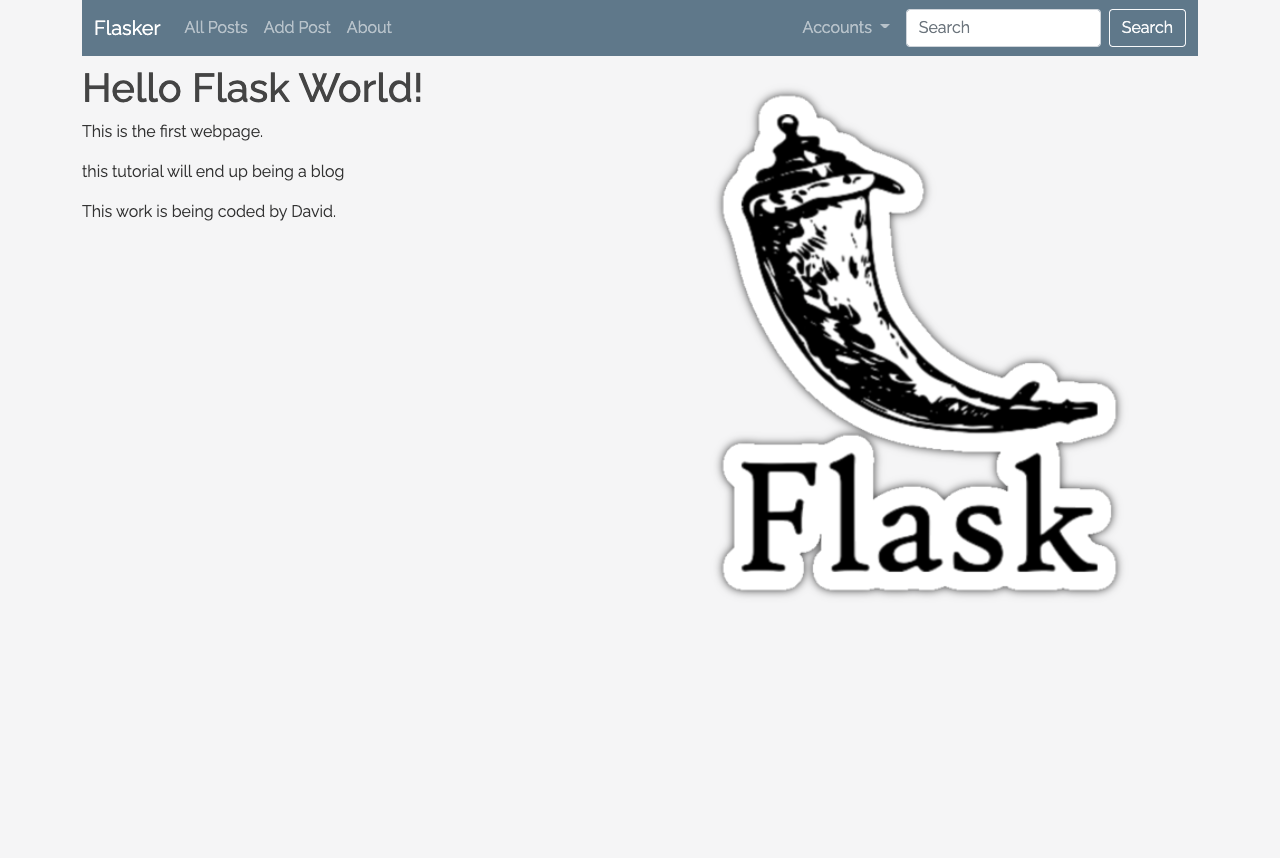
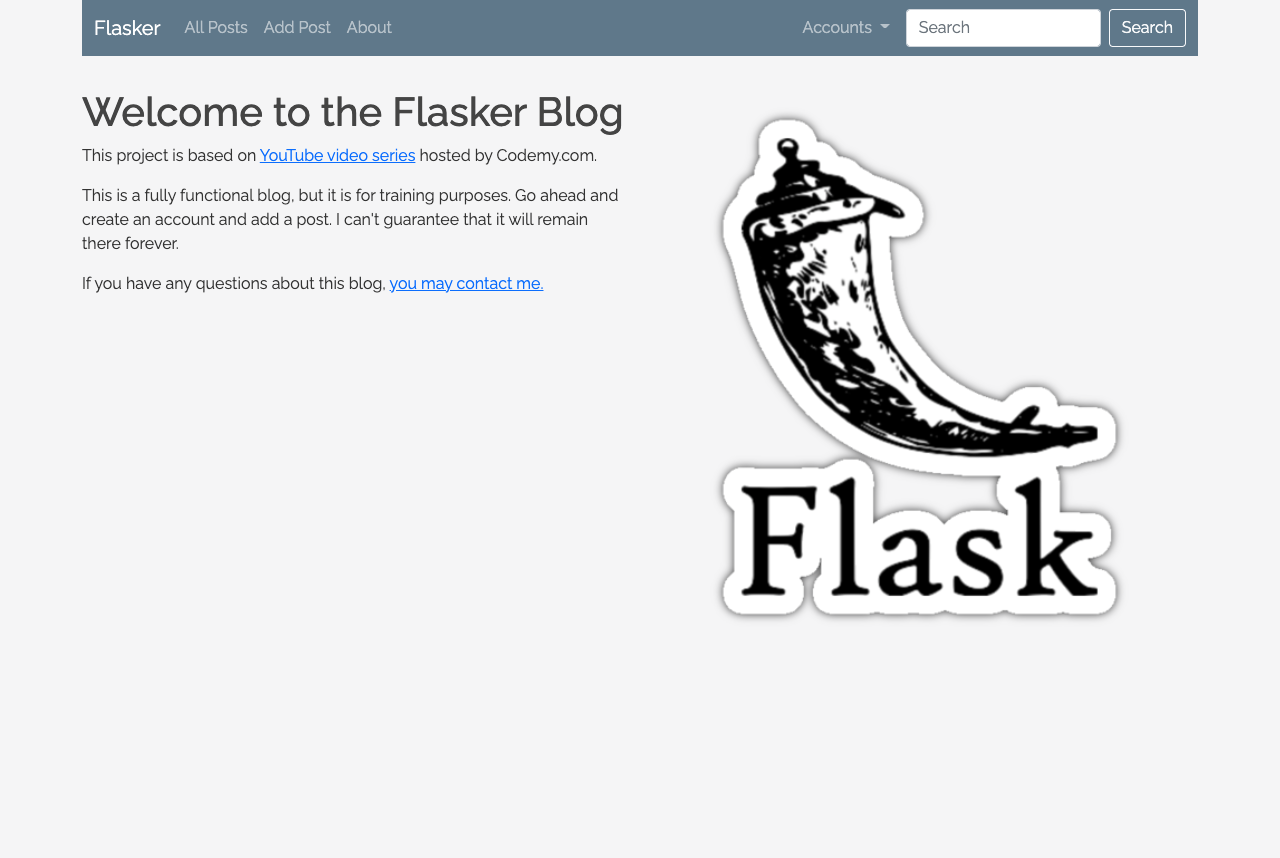
Updated default title and added support links

Changed region(s): [[0.5625, 0.0909, 0.875, 0.7273], [0.0625, 0.0909, 0.5, 0.3333], [0.1562, 0.303, 0.4062, 0.3636]]

diff --git a/templates/support.html b/templates/support.html
@@ -1,0 +1,15 @@
+{% extends "base.html" %}
+
+{% block content %}
+
+<h1 class="mt-4">Requesting Support</h1>
+<hr />
+<p class="mt-3"><strong>Github</strong></p>
+<p>You can reach me on Github and submit your question or issue there.</p>
+<a href=""><img src="{{ url_for('static', filename='images/github.png') }}" alt="Github"></a>
+
+<p class="mt-3"><strong>Email</strong></p>
+<p>If you have any questions or issues with this blog you may contact me by email.</p> 
+<a href="mailto:drobb2011@gmail.com?subject=Question or Issue with Flasker Blog"><img src="{{ url_for('static', filename='images/email.png') }}" alt="Gmail"></a></p>
+
+{% endblock content %}

diff --git a/templates/about.html b/templates/about.html
@@ -10,6 +10,9 @@
   <hr />
   <p>This site was built following a YouTube video series by Codemy.com called <a href="https://www.youtube.com/playlist?list=PLCC34OHNcOtolz2Vd9ZSeSXWc8Bq23yEz">Flask Fridays</a>. There are currently 42 videos in the series, adn there doesn't appear to be an end in sight. Check Out Codemy.com on <a href="https://www.youtube.com/c/Codemycom">YouTube</a></p>
 
+  <h2>Support</h2>
+  <p>Please follow this link <a href="{{ url_for ('support') }}">to ask for support</a></p>
+
   <h2>Tools & Software Used</h2>
   <p><strong>Code Editor</strong></p>
   <ul>

diff --git a/templates/base.html b/templates/base.html
@@ -4,9 +4,9 @@
     <meta charset="utf-8" />
     <!-- Dynamic title block -->
     {% if title %}
-    <title>Codemy Flask Tutorial - {{ title }}</title>
+    <title>Flasker Blog - {{ title }}</title>
     {% else %}
-    <title>Codemy Flask Tutorial</title>
+    <title>Flasker Blog</title>
     {% endif %}
     <meta name="viewport" content="width=device-width, initial-scale=1.0" />
     <meta name="description" content="Codemy Flask Tutorial" />

diff --git a/app.py b/app.py
@@ -412,6 +412,12 @@ def about():
     return render_template('about.html', title='About')
 
 
+# Support Flasker Blog Function --------------------------------
+@app.route('/support')
+def support():
+    return render_template('support.html', title='Support')
+
+
 # Error 404 handling Function --------------------------------
 @app.errorhandler(404)
 def page_not_fount(error):

diff --git a/README.md b/README.md
@@ -1,3 +1,4 @@
+<div id="top"></div>
 <!--
 *** Thanks for checking out the Best-README-Template. If you have a suggestion
 *** that would make this better, please fork the repo and create a pull request
@@ -74,15 +75,19 @@
   </ol>
 </details>
 
+<p align="right">(<a href="#top">back to top</a>)</p>
+
 <!-- ABOUT THE PROJECT -->
 ## About The Project
 
 <a href="https://github.com/drobb2020/flasker">
-    <img src="images/flaskerdrobb.png" alt="Logo" width="700">
+    <img src="images/flaskerdrobb.png" alt="Flasker Blog" width="700">
   </a>
 
 Python Flask Blog Application
 A flask application based on a tutorial from Codemy.com (Flask Friday's)
+
+<p align="right">(<a href="#top">back to top</a>)</p>
 
 ### Built With
 
@@ -91,14 +96,20 @@ A flask application based on a tutorial from Codemy.com (Flask Friday's)
 * [VSCode](https://code.visualstudio.com/)
 * [Bootstrap 5](https://getbootstrap.com/)
 
+<p align="right">(<a href="#top">back to top</a>)</p>
+
 <!-- GETTING STARTED -->
 ## Getting Started
 
 To get a local copy up and running follow these simple steps.
 
+<p align="right">(<a href="#top">back to top</a>)</p>
+
 ### Prerequisites
 
 You will need a version of Python installed greater than 3.6. You can run this on Windows, MacOS, or Linux. My project was created on a Mac, and the following installation commands are valid on a Mac, but are different on Windows!
+
+<p align="right">(<a href="#top">back to top</a>)</p>
 
 ### Installation
 
@@ -142,15 +153,26 @@ You will need a version of Python installed greater than 3.6. You can run this o
 
 Happy coding!
 
+<p align="right">(<a href="#top">back to top</a>)</p>
+
 <!-- USAGE EXAMPLES -->
 ## Usage
 
 This is primarily for learning and honing my flask skills. I hope you enjoy learning flask as much as I do.
 
+<p align="right">(<a href="#top">back to top</a>)</p>
+
 <!-- ROADMAP -->
 ## Roadmap
 
+* [X] Add Changelog
+* [X] Add back to top links
+* [X] Add Support contact information
+* [ ] Add a custom image for each blog post
+
 See the [open issues](https://github.com/drobb2020/flasker/issues) for a list of proposed features (and known issues).
+
+<p align="right">(<a href="#top">back to top</a>)</p>
 
 <!-- CONTRIBUTING -->
 ## Contributing
@@ -163,10 +185,14 @@ Contributions are what make the open source community such an amazing place to b
 4. Push to the Branch (`git push origin feature/AmazingFeature`)
 5. Open a Pull Request
 
+<p align="right">(<a href="#top">back to top</a>)</p>
+
 <!-- LICENSE -->
 ## License
 
 Distributed under the MIT License. See `LICENSE` for more information.
+
+<p align="right">(<a href="#top">back to top</a>)</p>
 
 <!-- CONTACT -->
 ## Contact
@@ -175,10 +201,14 @@ Your Name - [@davidrobb2](https://twitter.com/davidrobb2) - drobb2011@gmail.com
 
 Project Link: [https://github.com/drobb2020/flasker](https://github.com/drobb2020/flasker)
 
+<p align="right">(<a href="#top">back to top</a>)</p>
+
 <!-- ACKNOWLEDGEMENTS -->
 ## Acknowledgements
 
 * [John Elder @ codemy.com](https://www.youtube.com/playlist?list=PLCC34OHNcOtolz2Vd9ZSeSXWc8Bq23yEz)
+
+<p align="right">(<a href="#top">back to top</a>)</p>
 
 <!-- MARKDOWN LINKS & IMAGES -->
 <!-- https://www.markdownguide.org/basic-syntax/#reference-style-links -->

diff --git a/CHANGELOG.md b/CHANGELOG.md
@@ -1,0 +1,75 @@
+# Changelog
+
+## v1.0.7
+
+### Added or Changed
+
+- Added this changelog :)
+- Updated default page title
+- Added links for support
+
+### Removed
+
+- None at this commit.
+
+## V1.0.6
+
+### Added or Changed
+
+- Style changes
+- Corrected handling profile updates issue with profile_pic
+- Updated About page
+
+### Removed
+
+- None at this commit.
+
+## v1.0.4
+
+### Added or Changed
+
+- Updated Readme
+
+### Removed
+
+- None at this commit.
+
+## v1.0.3
+
+### Added or Changed
+
+- Corrected profile_pic settings
+
+### Removed
+
+- None at this commit.
+
+## v1.0.2
+
+### Added or Changed
+
+- Corrected postgresql configuration
+
+### Removed
+
+- None at this commit.
+
+## v1.0.1
+
+### Added or Changed
+
+- Minor modifications for deployment to Heroku.
+
+### Removed
+
+- None at this commit.
+
+## v1.0.0
+
+### Added or Changed
+
+- Initial Commit
+
+### Removed
+
+- None at this commit.
